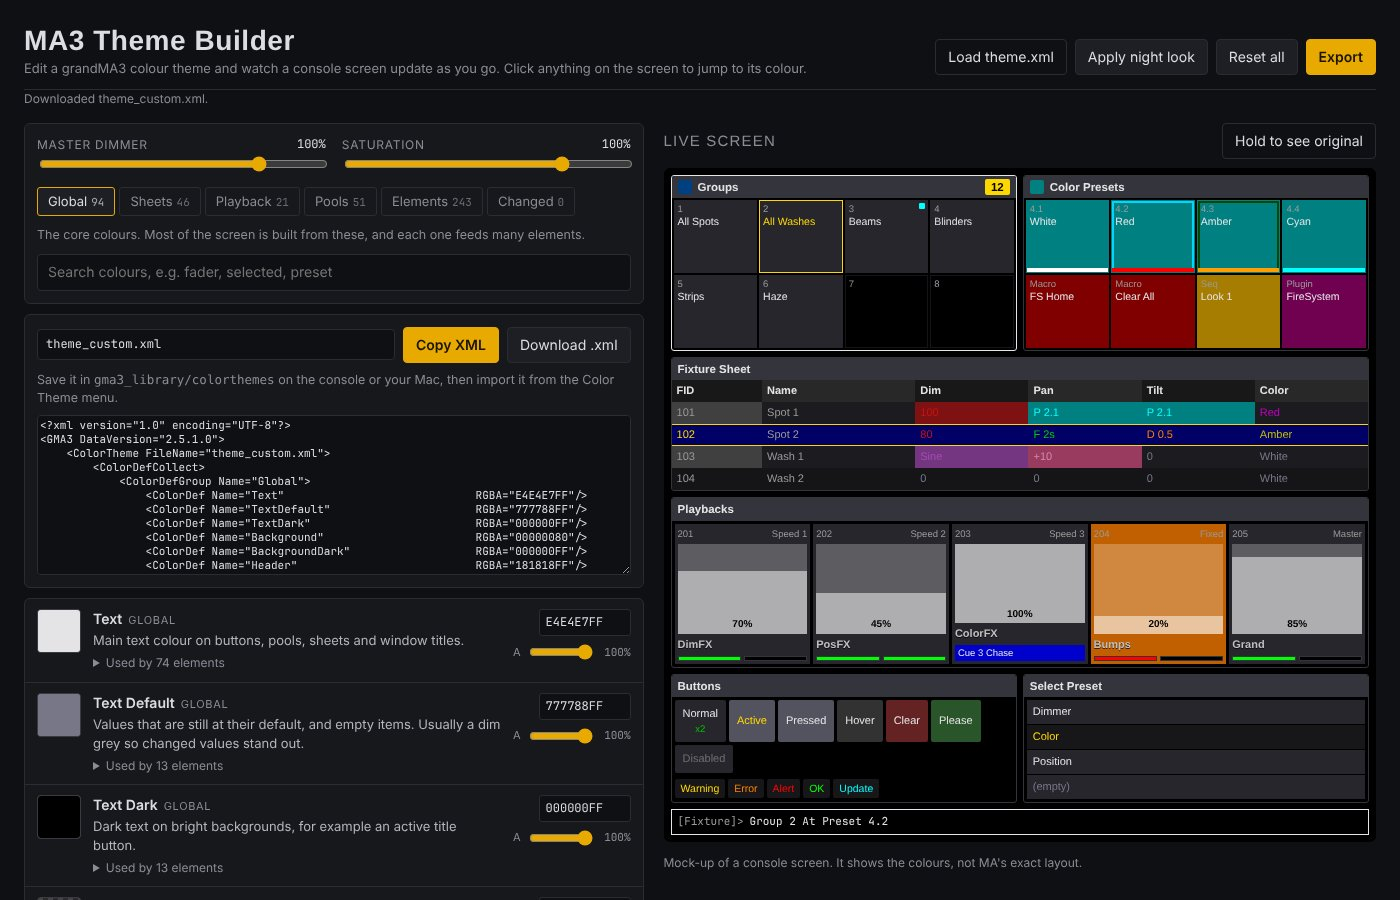
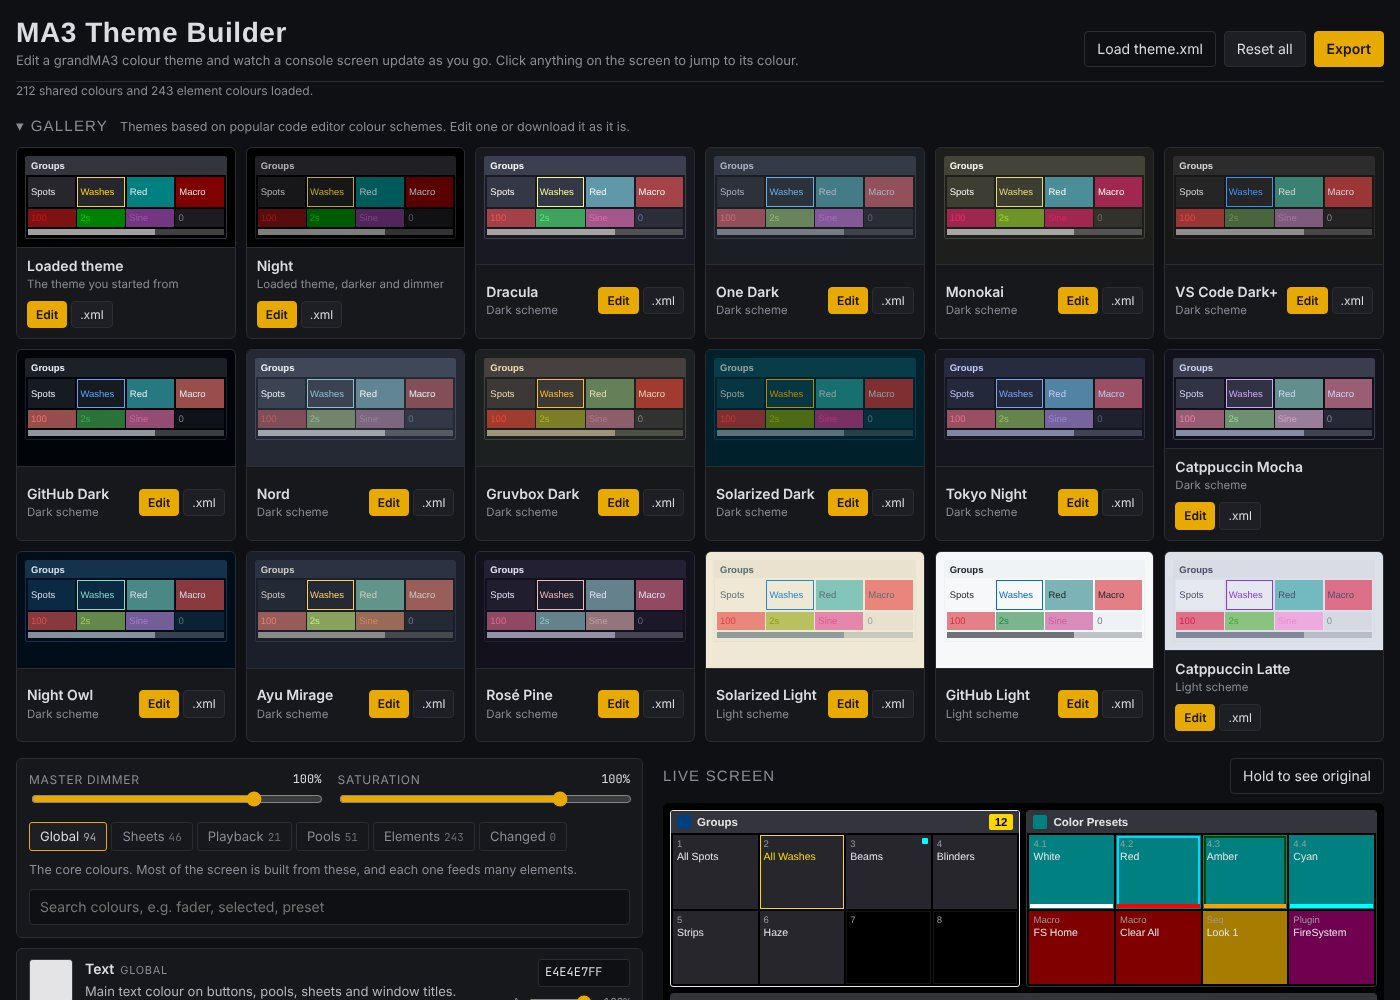
Add a theme gallery based on code editor colour schemes (#1)
Sixteen editor schemes (Dracula, One Dark, Monokai, VS Code Dark+, GitHub
Dark/Light, Nord, Gruvbox, Solarized Dark/Light, Tokyo Night, Catppuccin
Mocha/Latte, Night Owl, Ayu Mirage, Rose Pine) plus the loaded theme and
its Night version. Each card previews the theme and can open it in the
editor or download it. Also fixes the export panel showing before Export
is pressed (the page had no [hidden] rule).

diff --git a/index.html b/index.html
@@ -20,6 +20,8 @@
 html, body { background: var(--bg); color: var(--fg); }
 body { font-family: var(--f-body); font-size: 14px; line-height: 1.45; }
 * { box-sizing: border-box; }
+[hidden] { display: none !important; }
+body { margin: 0; }
 button, input, select { font: inherit; color: inherit; }
 :focus-visible { outline: 2px solid var(--accent); outline-offset: 2px; }
 
@@ -80,6 +82,32 @@ details.used span { font-family: var(--f-mono); font-size: 11px; background: var
 .reset[hidden] { display: none !important; }
 .empty { background: var(--panel); padding: 20px; color: var(--muted); }
 @media (max-width: 520px) { .row { grid-template-columns: 40px minmax(0, 1fr); } .vals { grid-column: 2; justify-items: start; grid-auto-flow: column; align-items: center; } .sw { width: 40px; height: 40px; } }
+
+/* ---------- gallery ---------- */
+.gallery { margin-top: 16px; }
+.gallery summary { display: flex; flex-wrap: wrap; align-items: baseline; gap: 4px 12px; cursor: pointer; list-style: none; }
+.gallery summary::-webkit-details-marker { display: none; }
+.gallery summary h2 { font-family: var(--f-display); font-size: 15px; letter-spacing: .08em; text-transform: uppercase; color: var(--muted); margin: 0; font-weight: 500; }
+.gallery summary h2::before { content: "\25BE"; display: inline-block; margin-right: 6px; transition: transform .15s; }
+.gallery:not([open]) summary h2::before { transform: rotate(-90deg); }
+.gallery summary span { font-size: 12.5px; color: var(--muted); }
+.ggrid { display: grid; grid-template-columns: repeat(auto-fill, minmax(190px, 1fr)); gap: 10px; margin-top: 10px; }
+.gcard { background: var(--panel); border: 1px solid var(--line); border-radius: 6px; overflow: hidden; display: grid; min-width: 0; }
+.gprev { padding: 8px; font-family: Arial, Helvetica, sans-serif; font-size: 9.5px; }
+.gwin { border: 1px solid; border-radius: 2px; overflow: hidden; }
+.gtitle { padding: 2px 5px; font-weight: bold; }
+.gtiles { display: grid; grid-template-columns: repeat(4, minmax(0, 1fr)); gap: 2px; padding: 2px; }
+.gtiles span { padding: 8px 3px; white-space: nowrap; overflow: hidden; text-overflow: ellipsis; }
+.grow { display: grid; grid-template-columns: repeat(4, minmax(0, 1fr)); gap: 1px; padding: 0 2px 2px; }
+.grow i { font-style: normal; padding: 2px 3px; }
+.gfader { height: 6px; margin: 0 2px 3px; position: relative; }
+.gfader b { position: absolute; inset: 0 35% 0 0; }
+.gmeta { display: flex; flex-wrap: wrap; justify-content: space-between; align-items: center; gap: 8px; padding: 8px 10px 10px; border-top: 1px solid var(--line); }
+.gmeta > div:first-child { min-width: 0; }
+.gmeta h3 { margin: 0; font-size: 14px; font-weight: 600; white-space: nowrap; overflow: hidden; text-overflow: ellipsis; }
+.gmeta p { margin: 0; font-size: 11.5px; color: var(--muted); }
+.gbtns { display: flex; gap: 4px; flex-shrink: 0; }
+.gbtns .btn { padding: 4px 8px; font-size: 12px; }
 
 /* ---------- export panel ---------- */
 .exportBox { margin-top: 10px; background: var(--panel); border: 1px solid var(--line); border-radius: 6px; padding: 12px; display: grid; gap: 8px; }
@@ -166,12 +194,16 @@ details.used span { font-family: var(--f-mono); font-size: 11px; background: var
     <div class="actions">
       <label class="btn ghost" for="fileIn">Load theme.xml</label>
       <input type="file" id="fileIn" accept=".xml,text/xml" hidden>
-      <button class="btn" id="btnNight" type="button">Apply night look</button>
-      <button class="btn" id="btnReset" type="button">Reset all</button>
+            <button class="btn" id="btnReset" type="button">Reset all</button>
       <button class="btn primary" id="btnExport" type="button">Export</button>
     </div>
   </header>
   <div class="status" id="status" role="status"></div>
+
+  <details class="gallery" id="gallery" open>
+    <summary><h2>Gallery</h2><span>Themes based on popular code editor colour schemes. Edit one or download it as it is.</span></summary>
+    <div class="ggrid" id="galleryGrid"></div>
+  </details>
 
   <div class="grid">
     <section aria-label="Colours">
@@ -512,20 +544,20 @@ function load(text) {
 }
 const val = k => state.vals[k] || defMap[k].orig;
 
-function buildXml() {
-  const name = ($('#fname').value.trim() || 'theme_custom.xml').replace(/[^\w.\- ]/g, '_');
+function buildXml(get = k => master(val(k)), fname = $('#fname').value) {
+  const name = (fname.trim() || 'theme_custom.xml').replace(/[^\w.\- ]/g, '_');
   const split = SRC.indexOf('<ColorGroups>');
   let g = '';
   const head = SRC.slice(0, split).replace(/<ColorDefGroup Name="([^"]+)">|(<ColorDef Name="([^"]+)"\s+RGBA=")([0-9A-Fa-f]{8})(")/g, (m, grp, pre, n, rgba, post) => {
     if (grp) { g = grp; return m; }
-    return pre + master(val(g+'.'+n)) + post;
+    return pre + get(g+'.'+n) + post;
   }).replace(/(<ColorTheme FileName=")[^"]*(")/, `$1${name}$2`);
   const tail = SRC.slice(split).replace(/<ColorGroup Name="([^"]+)">|<Color Name="([^"]+)"([^>]*?)\/>/g, (m, grp, n, attrs) => {
     if (grp) { g = grp; return m; }
     const ref = (attrs.match(/ColorDefRef="([^"]+)"/) || [])[1];
     let k = ref && defMap[ref] ? ref : (!ref ? 'el:'+g+'.'+n : null);
     if (!k || !defMap[k]) return m;
-    return m.replace(/RGBA="[0-9A-Fa-f]{8}"/, `RGBA="${master(val(k))}"`);
+    return m.replace(/RGBA="[0-9A-Fa-f]{8}"/, `RGBA="${get(k)}"`);
   });
   return '' + head + tail;
 }
@@ -644,10 +676,93 @@ resetBtn.addEventListener('click', () => {
   resetArmed = false; resetBtn.textContent = 'Reset all';
   state.vals = {}; state.dim = 100; state.sat = 100; syncMasters(); paintDemo(); renderList(); persist(); say('All colours are back to the loaded theme.');
 });
-$('#btnNight').addEventListener('click', () => {
-  for (const d of [...defs, ...elems]) { const v = mapHex(val(d.key), nightFn); if (v !== d.orig) state.vals[d.key] = v; else delete state.vals[d.key]; }
-  paintDemo(); renderList(); persist(); say('Night look applied: backgrounds about 40% darker, text about 22% dimmer. Press it again to go darker still.');
+
+/* ---------- gallery: editor colour schemes mapped onto the MA3 theme ---------- */
+// Each scheme gives a neutral ramp (deepest background to text) plus its accent hues.
+// Greys in the loaded theme move along the ramp by brightness; coloured entries take the
+// scheme's colour of the nearest hue, blended toward the background as dark as the original was.
+const SCHEMES = [
+  {id:'dracula', name:'Dracula', ramp:['191A21','282A36','343746','44475A','6272A4','F8F8F2'], accent:'F1FA8C', red:'FF5555', orange:'FFB86C', yellow:'F1FA8C', green:'50FA7B', cyan:'8BE9FD', blue:'BD93F9', purple:'BD93F9', pink:'FF79C6'},
+  {id:'one-dark', name:'One Dark', ramp:['1B1F24','282C34','2C313A','3E4451','5C6370','ABB2BF'], accent:'61AFEF', red:'E06C75', orange:'D19A66', yellow:'E5C07B', green:'98C379', cyan:'56B6C2', blue:'61AFEF', purple:'C678DD', pink:'C678DD'},
+  {id:'monokai', name:'Monokai', ramp:['1E1F1C','272822','3E3D32','49483E','75715E','F8F8F2'], accent:'E6DB74', red:'F92672', orange:'FD971F', yellow:'E6DB74', green:'A6E22E', cyan:'66D9EF', blue:'66D9EF', purple:'AE81FF', pink:'F92672'},
+  {id:'dark-plus', name:'VS Code Dark+', ramp:['181818','1E1E1E','252526','333333','858585','D4D4D4'], accent:'3794FF', red:'F44747', orange:'CE9178', yellow:'DCDCAA', green:'6A9955', cyan:'4EC9B0', blue:'569CD6', purple:'C586C0', pink:'C586C0'},
+  {id:'github-dark', name:'GitHub Dark', ramp:['010409','0D1117','161B22','21262D','7D8590','E6EDF3'], accent:'58A6FF', red:'FF7B72', orange:'FFA657', yellow:'D29922', green:'3FB950', cyan:'39C5CF', blue:'58A6FF', purple:'D2A8FF', pink:'F778BA'},
+  {id:'nord', name:'Nord', ramp:['242933','2E3440','3B4252','434C5E','616E88','ECEFF4'], accent:'88C0D0', red:'BF616A', orange:'D08770', yellow:'EBCB8B', green:'A3BE8C', cyan:'88C0D0', blue:'81A1C1', purple:'B48EAD', pink:'B48EAD'},
+  {id:'gruvbox', name:'Gruvbox Dark', ramp:['1D2021','282828','3C3836','504945','928374','EBDBB2'], accent:'FABD2F', red:'FB4934', orange:'FE8019', yellow:'FABD2F', green:'B8BB26', cyan:'8EC07C', blue:'83A598', purple:'D3869B', pink:'D3869B'},
+  {id:'solarized-dark', name:'Solarized Dark', ramp:['00212B','002B36','073642','0A4250','586E75','93A1A1'], accent:'B58900', red:'DC322F', orange:'CB4B16', yellow:'B58900', green:'859900', cyan:'2AA198', blue:'268BD2', purple:'6C71C4', pink:'D33682'},
+  {id:'tokyo-night', name:'Tokyo Night', ramp:['16161E','1A1B26','24283B','292E42','565F89','C0CAF5'], accent:'7AA2F7', red:'F7768E', orange:'FF9E64', yellow:'E0AF68', green:'9ECE6A', cyan:'7DCFFF', blue:'7AA2F7', purple:'BB9AF7', pink:'BB9AF7'},
+  {id:'catppuccin-mocha', name:'Catppuccin Mocha', ramp:['11111B','1E1E2E','313244','45475A','7F849C','CDD6F4'], accent:'CBA6F7', red:'F38BA8', orange:'FAB387', yellow:'F9E2AF', green:'A6E3A1', cyan:'94E2D5', blue:'89B4FA', purple:'CBA6F7', pink:'F5C2E7'},
+  {id:'night-owl', name:'Night Owl', ramp:['010E1A','011627','0B2942','1D3B53','637777','D6DEEB'], accent:'7FDBCA', red:'EF5350', orange:'F78C6C', yellow:'ECC48D', green:'ADDB67', cyan:'7FDBCA', blue:'82AAFF', purple:'C792EA', pink:'C792EA'},
+  {id:'ayu-mirage', name:'Ayu Mirage', ramp:['1A1F29','1F2430','242936','323A4C','707A8C','CCCAC2'], accent:'FFCC66', red:'F28779', orange:'FFAD66', yellow:'FFD173', green:'D5FF80', cyan:'95E6CB', blue:'73D0FF', purple:'DFBFFF', pink:'F29E74'},
+  {id:'rose-pine', name:'Rosé Pine', ramp:['13111C','191724','1F1D2E','26233A','6E6A86','E0DEF4'], accent:'EBBCBA', red:'EB6F92', orange:'F6C177', yellow:'F6C177', green:'9CCFD8', cyan:'9CCFD8', blue:'31748F', purple:'C4A7E7', pink:'EBBCBA'},
+  {id:'solarized-light', name:'Solarized Light', light:true, ramp:['EEE8D5','FDF6E3','EEE8D5','E4DDC8','93A1A1','586E75'], accent:'268BD2', red:'DC322F', orange:'CB4B16', yellow:'B58900', green:'859900', cyan:'2AA198', blue:'268BD2', purple:'6C71C4', pink:'D33682'},
+  {id:'github-light', name:'GitHub Light', light:true, ramp:['F6F8FA','FFFFFF','F6F8FA','EAEEF2','6E7781','1F2328'], accent:'0969DA', red:'CF222E', orange:'BC4C00', yellow:'9A6700', green:'1A7F37', cyan:'1B7C83', blue:'0969DA', purple:'8250DF', pink:'BF3989'},
+  {id:'catppuccin-latte', name:'Catppuccin Latte', light:true, ramp:['DCE0E8','EFF1F5','E6E9EF','CCD0DA','8C8FA1','4C4F69'], accent:'8839EF', red:'D20F39', orange:'FE640B', yellow:'DF8E1D', green:'40A02B', cyan:'179299', blue:'1E66F5', purple:'8839EF', pink:'EA76CB'}
+];
+const RAMP_AT = [0, 0.08, 0.17, 0.3, 0.55, 0.9];
+const ACCENT_KEYS = new Set(['Global.Selected', 'Global.SelectedRowBorder', 'Global.ActiveIcon', 'Global.SelectedEdge']);
+const rgbOf = h => [0,2,4].map(i => parseInt(h.slice(i, i+2), 16));
+const mixRgb = (a, b, t) => a.map((x, i) => x + (b[i] - x) * t);
+function hueName(h) {
+  const d = h * 360;
+  return d < 15 || d >= 345 ? 'red' : d < 40 ? 'orange' : d < 70 ? 'yellow' : d < 165 ? 'green' : d < 195 ? 'cyan' : d < 255 ? 'blue' : d < 290 ? 'purple' : 'pink';
+}
+function schemeHex(sc, key, orig) {
+  const c = parse(orig), [h, s, v] = rgb2hsv(c.r, c.g, c.b);
+  let a = orig.slice(6, 8);
+  // Half-transparent dark panels look muddy grey over the console's black desktop on a light scheme, so make them solid.
+  if (sc.light && v < 0.3 && c.a >= 0x80 && !/Transparent|Shadow|Lasso|DeskLock|Overlay/.test(key)) a = 'FF';
+  let rgb;
+  if (ACCENT_KEYS.has(key)) rgb = rgbOf(sc.accent);
+  else if (s < 0.2 || v < 0.08) {
+    const ramp = sc.ramp.map(rgbOf);
+    let i = 0; while (i < RAMP_AT.length - 2 && v > RAMP_AT[i+1]) i++;
+    rgb = mixRgb(ramp[i], ramp[i+1], clamp((v - RAMP_AT[i]) / (RAMP_AT[i+1] - RAMP_AT[i]), 0, 1));
+  } else rgb = mixRgb(rgbOf(sc.ramp[1]), rgbOf(sc[hueName(h)]), clamp(v * 1.15, 0, 1));
+  return hx(rgb[0]) + hx(rgb[1]) + hx(rgb[2]) + a.toUpperCase();
+}
+const GALLERY = [
+  {id:'loaded', name:'Loaded theme', note:'The theme you started from', fn:(k, o) => o},
+  {id:'night', name:'Night', note:'Loaded theme, darker and dimmer', fn:(k, o) => mapHex(o, nightFn)},
+  ...SCHEMES.map(sc => ({id: sc.id, name: sc.name, note: sc.light ? 'Light scheme' : 'Dark scheme', fn: (k, o) => schemeHex(sc, k, o)}))
+];
+function galleryVals(t) { const out = {}; for (const d of [...defs, ...elems]) out[d.key] = t.fn(d.key, d.orig); return out; }
+function renderGallery() {
+  const grid = $('#galleryGrid');
+  grid.innerHTML = GALLERY.map(t => {
+    const g = k => css(defMap[k] ? t.fn(k, defMap[k].orig) : '00000000');
+    return `<article class="gcard" data-id="${t.id}">
+      <div class="gprev" style="background:${g('Global.BackgroundDark')}">
+        <div class="gwin" style="background:${g('Global.Background')};border-color:${g('Global.IndicatorBar')}">
+          <div class="gtitle" style="background:${g('Global.TitleGray')};color:${g('Global.Text')}">Groups</div>
+          <div class="gtiles">
+            <span style="background:${g('Global.ButtonBackground')};color:${g('Global.Text')}">Spots</span>
+            <span style="background:${g('Global.ButtonBackground')};color:${g('Global.Selected')};box-shadow:inset 0 0 0 1px ${g('Global.Selected')}">Washes</span>
+            <span style="background:${g('PoolDefault.PresetColor')};color:${g('Global.Text')}">Red</span>
+            <span style="background:${g('PoolDefault.Macro')};color:${g('Global.Text')}">Macro</span>
+          </div>
+          <div class="grow"><i style="background:${g('SheetColor.Absolute')};color:${g('SheetColor.AbsoluteText')}">100</i><i style="background:${g('SheetColor.Fade')};color:${g('SheetColor.FadeText')}">2s</i><i style="background:${g('SheetColor.Phaser')};color:${g('SheetColor.PhaserText')}">Sine</i><i style="background:${g('Global.DefaultCellBackground')};color:${g('Global.TextDefault')}">0</i></div>
+          <div class="gfader" style="background:${g('Playback.FaderBarBack')}"><b style="background:${g('Playback.FaderBar')}"></b></div>
+        </div>
+      </div>
+      <div class="gmeta"><div><h3>${esc(t.name)}</h3><p>${esc(t.note)}</p></div>
+        <div class="gbtns"><button class="btn primary" type="button" data-act="use">Edit</button><button class="btn" type="button" data-act="dl" aria-label="Download ${esc(t.name)} as XML">.xml</button></div></div>
+    </article>`;
+  }).join('');
+}
+$('#galleryGrid').addEventListener('click', e => {
+  const b = e.target.closest('button[data-act]'); if (!b) return;
+  const t = GALLERY.find(x => x.id === b.closest('.gcard').dataset.id);
+  const vals = galleryVals(t), fname = t.id === 'loaded' ? 'theme.xml' : `theme_${t.id}.xml`;
+  if (b.dataset.act === 'dl') { download(buildXml(k => vals[k], fname), fname); return; }
+  state.vals = {}; for (const k in vals) if (vals[k] !== defMap[k].orig) state.vals[k] = vals[k];
+  state.dim = 100; state.sat = 100; $('#fname').value = fname;
+  syncMasters(); paintDemo(); renderList(); persist();
+  if (!$('#exportBox').hidden) $('#xmlOut').value = buildXml();
+  say(`${t.name} is loaded into the editor. Fine-tune any colour below, then Export.`);
+  $('.grid').scrollIntoView({block: 'start', behavior: matchMedia('(prefers-reduced-motion: reduce)').matches ? 'auto' : 'smooth'});
 });
+
 const cmp = $('#btnCompare');
 const showOrig = on => { paintDemo(on); cmp.textContent = on ? 'Showing original' : 'Hold to see original'; };
 cmp.addEventListener('pointerdown', () => showOrig(true));
@@ -660,7 +775,7 @@ $('#fileIn').addEventListener('change', e => {
   const r = new FileReader();
   r.onload = () => {
     const keep = SRC;
-    try { load(String(r.result)); state.dim = 100; state.sat = 100; syncMasters(); $('#fname').value = f.name.replace(/\.xml$/i,'') + '_custom.xml'; paintDemo(); renderList(); persist(); say(`Loaded ${f.name}: ${defs.length} shared colours, ${elems.length} element colours.`); }
+    try { load(String(r.result)); state.dim = 100; state.sat = 100; syncMasters(); $('#fname').value = f.name.replace(/\.xml$/i,'') + '_custom.xml'; paintDemo(); renderList(); renderGallery(); persist(); say(`Loaded ${f.name}: ${defs.length} shared colours, ${elems.length} element colours.`); }
     catch (err) { load(keep); say(err.message + ' Kept the previous theme.'); }
     e.target.value = '';
   };
@@ -677,12 +792,13 @@ $('#btnCopy').addEventListener('click', () => {
   const fallback = () => { ta.focus(); ta.select(); say('Copy was blocked here. The XML is selected: press Cmd+C (or Ctrl+C).'); };
   try { navigator.clipboard.writeText(xml.replace(/^/,'')).then(() => say(`Copied. Paste it into a new file named ${$('#fname').value}.`), fallback); } catch { fallback(); }
 });
-$('#btnSave').addEventListener('click', () => {
-  const name = ($('#fname').value.trim() || 'theme_custom.xml').replace(/(\.xml)?$/i, '.xml');
-  const url = URL.createObjectURL(new Blob([buildXml()], {type: 'application/xml'}));
+function download(xml, fname) {
+  const name = (fname.trim() || 'theme_custom.xml').replace(/(\.xml)?$/i, '.xml');
+  const url = URL.createObjectURL(new Blob([xml], {type: 'application/xml'}));
   const a = document.createElement('a'); a.href = url; a.download = name; document.body.appendChild(a); a.click(); a.remove();
-  setTimeout(() => URL.revokeObjectURL(url), 1000); say(`Downloaded ${name}.`);
-});
+  setTimeout(() => URL.revokeObjectURL(url), 1000); say(`Downloaded ${name}. Put it in gma3_library/colorthemes and import it from the Color Theme menu.`);
+}
+$('#btnSave').addEventListener('click', () => download(buildXml(), $('#fname').value));
 
 /* ---------- storage (per-viewer draft) ---------- */
 const LS = 'ma3-theme-builder-v1';
@@ -698,7 +814,7 @@ function persist() { clearTimeout(saveT); saveT = setTimeout(() => { try { local
     const s = JSON.parse(localStorage.getItem(LS) || 'null');
     if (s) { if (s.src) { try { load(s.src); } catch { load(base); } } state.vals = {}; for (const k in s.vals || {}) if (defMap[k]) state.vals[k] = s.vals[k]; state.dim = s.dim || 100; state.sat = s.sat || 100; if (s.fname) $('#fname').value = s.fname; }
   } catch {}
-  syncMasters(); paintDemo(); renderList();
+  syncMasters(); paintDemo(); renderList(); renderGallery();
   say(`${defs.length} shared colours and ${elems.length} element colours loaded.` + (Object.keys(state.vals).length ? ` Your ${Object.keys(state.vals).length} earlier changes are restored.` : ''));
 })();
 })();

diff --git a/README.md b/README.md
@@ -12,7 +12,8 @@ A browser tool for editing grandMA3 colour themes. Pick colours, read what each 
 - Lists every shared colour (Global, Sheets, Playback, Pools) with a colour picker, hex box, opacity slider and a short note on where it shows up, plus which screen elements use it.
 - Lists the element colours that aren't linked to a shared colour, for fine control.
 - A live screen with pools, a fixture sheet, executors, buttons and the command line. Click anything on it to jump to its colour.
-- Master dimmer and saturation sliders, a one-click night look, and a hold-to-compare button.
+- A gallery of ready-made themes based on popular code editor colour schemes (Dracula, One Dark, Monokai, VS Code Dark+, GitHub, Nord, Gruvbox, Solarized, Tokyo Night, Catppuccin, Night Owl, Ayu, Rosé Pine) plus a darker Night version of the loaded theme. Edit any of them or download it straight away.
+- Master dimmer and saturation sliders, and a hold-to-compare button.
 - Exports the theme with the original file's structure untouched, so it imports straight back into MA3. Exporting with no changes gives back the original file byte for byte.
 
 Edits are kept in your browser between visits.
